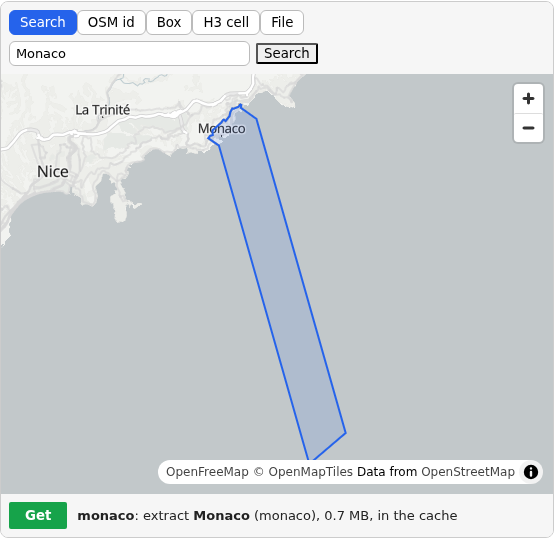
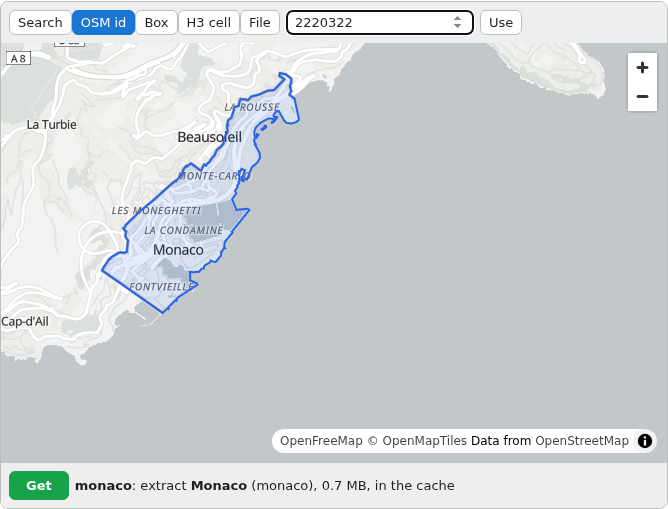
AreaPicker picture: the city of Monaco (OSM id 2220322), not the country with its sea

diff --git a/docs/guides/area-picker.md b/docs/guides/area-picker.md
@@ -3,7 +3,7 @@
 `duckosm.AreaPicker` is a map in a Jupyter notebook. You use it to choose an area. Then you click **Get** to get the
 OSM file of the area.
 
-![The AreaPicker widget in JupyterLab: the search found Monaco, and the line under the map shows the extract](../images/area-picker.png)
+![The AreaPicker widget in JupyterLab: the OSM id 2220322 gives the city of Monaco, and the line under the map shows the extract](../images/area-picker.png)
 
 The widget does the same work as [`duckosm get`](../exports/osm-file.md): it finds the
 boundary, takes the smallest Geofabrik extract that holds the boundary, downloads the extract and cuts it.
